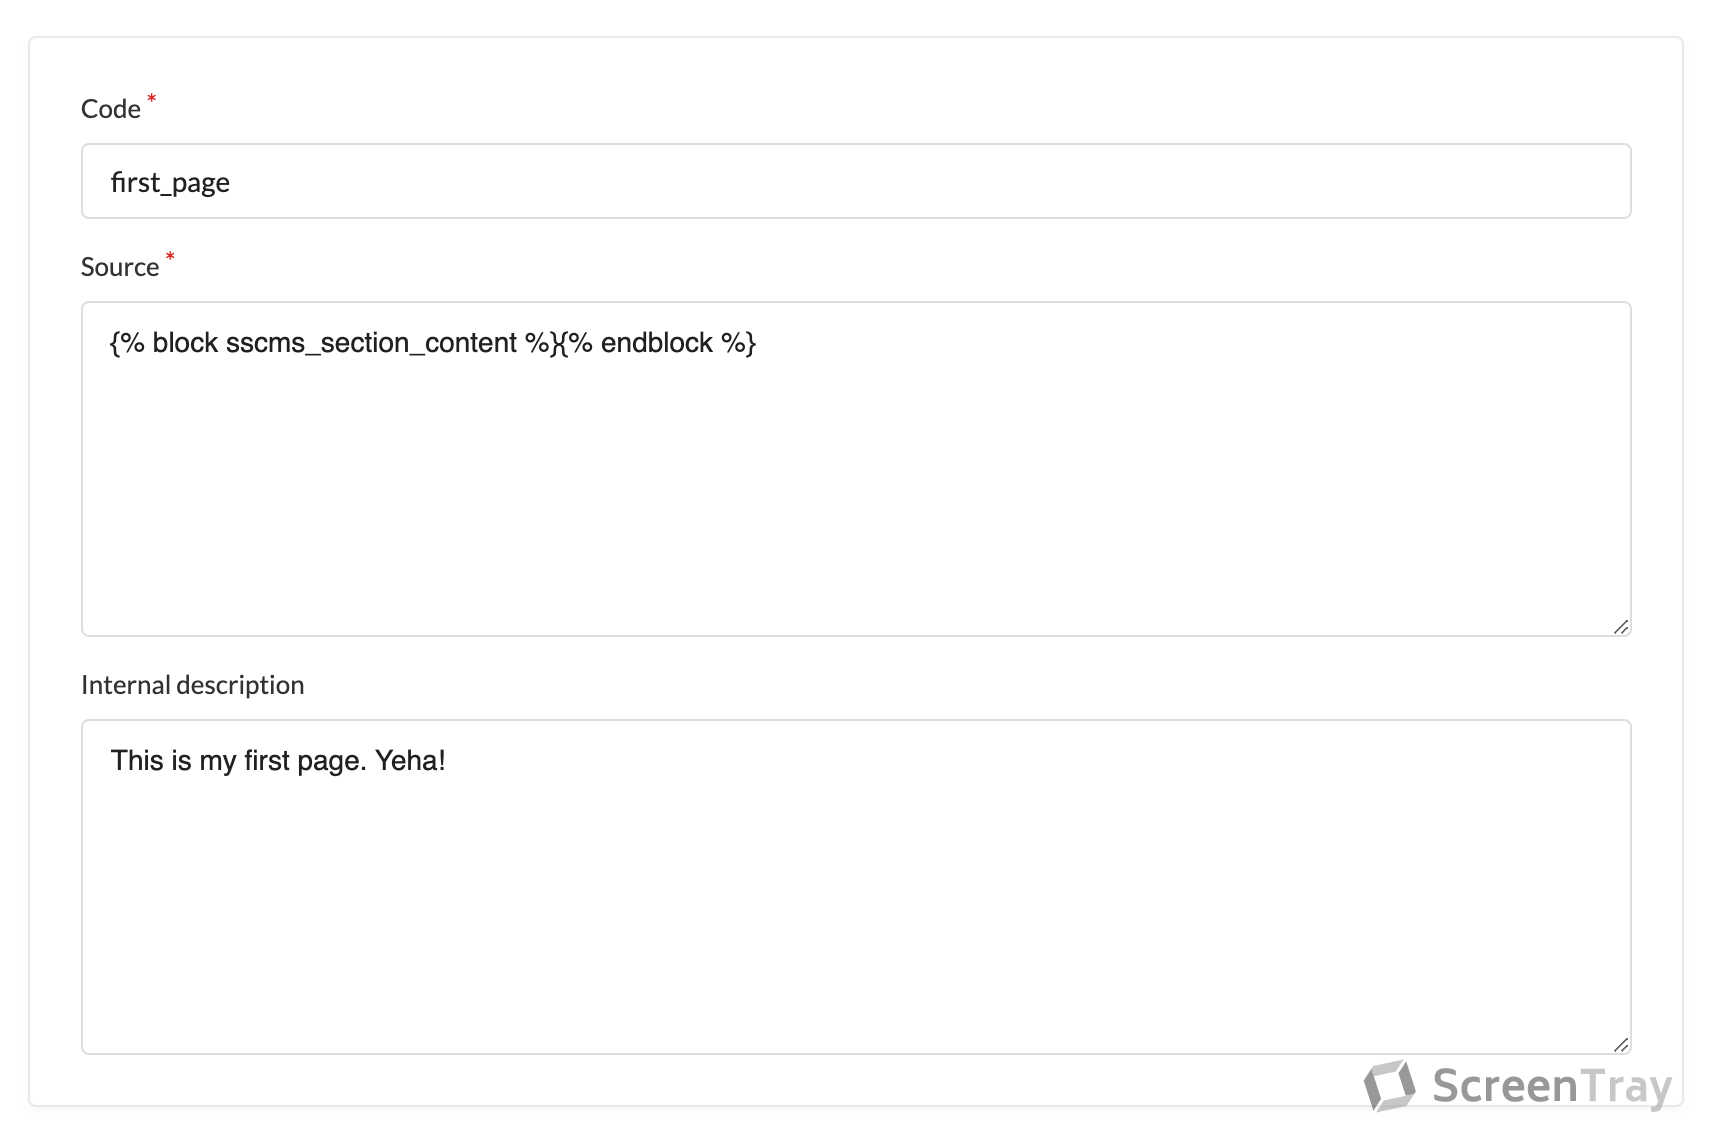
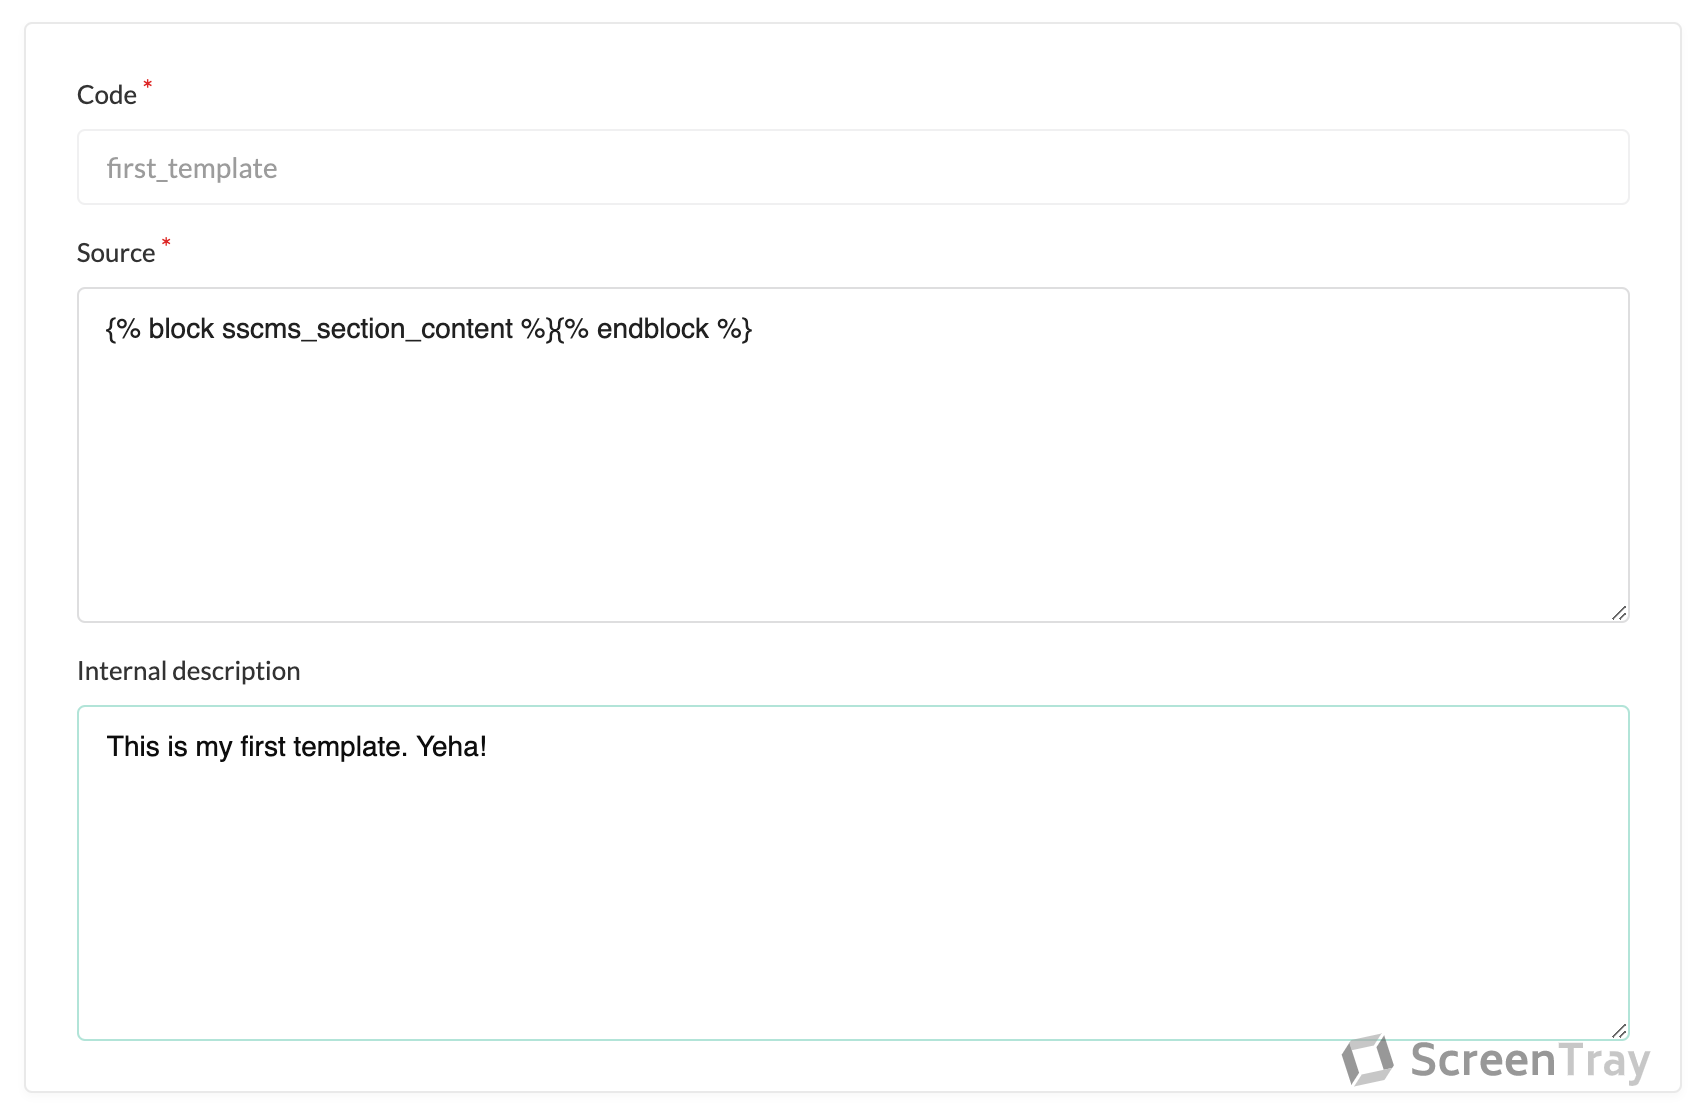
Update with new sections

diff --git a/docs/your-first-page.md b/docs/your-first-page.md
@@ -10,7 +10,7 @@ When a page is requested, the CMS will go through this _flow_:
 ## Creating your first template
 
 From this short description, you can deduce that the basis for our page is the template, so let's create a template.
-Click on `Templates` in the menu and click `Create`. Input `first_page` in the `Code` field and 
+Click on `Templates` in the menu and click `Create`. Input `first_template` in the `Code` field and 
 `\{% block sscms_section_content %\}\{% endblock %\}` in the `Source` field.
 The internal description field is used for your internal usage to better identify templates later on.
 Here is a screenshot of what you should have now:
@@ -37,3 +37,23 @@ Hit `Create`.
 
 Now we have to tie the blocks to the section we defined in the template. We do this in a view. Click on `Views` and
 then `Create`.
+
+Now, in the `Code` your input `first_view` and for the template you choose `first_template`. When you select the template
+the available sections for the template appears on the right. Now you select `first_block` and you should have something
+like the following image:
+
+![First block](images/first_view.png)
+
+Remember to hit `Create`
+
+## Creating your first page
+
+Last step! We will now create our page. Go to `Pages` and click `Create`. Input `first_page` in the `Code` field and
+select the view we just created, namely `first_view`, and input `first-page` in the `Slug` field. Again, here is an
+image showing what it could look like:
+
+![First block](images/first_view.png)
+
+Click `Create`.
+
+You're done! Go to `/en_US/first-page` to see your new page!
